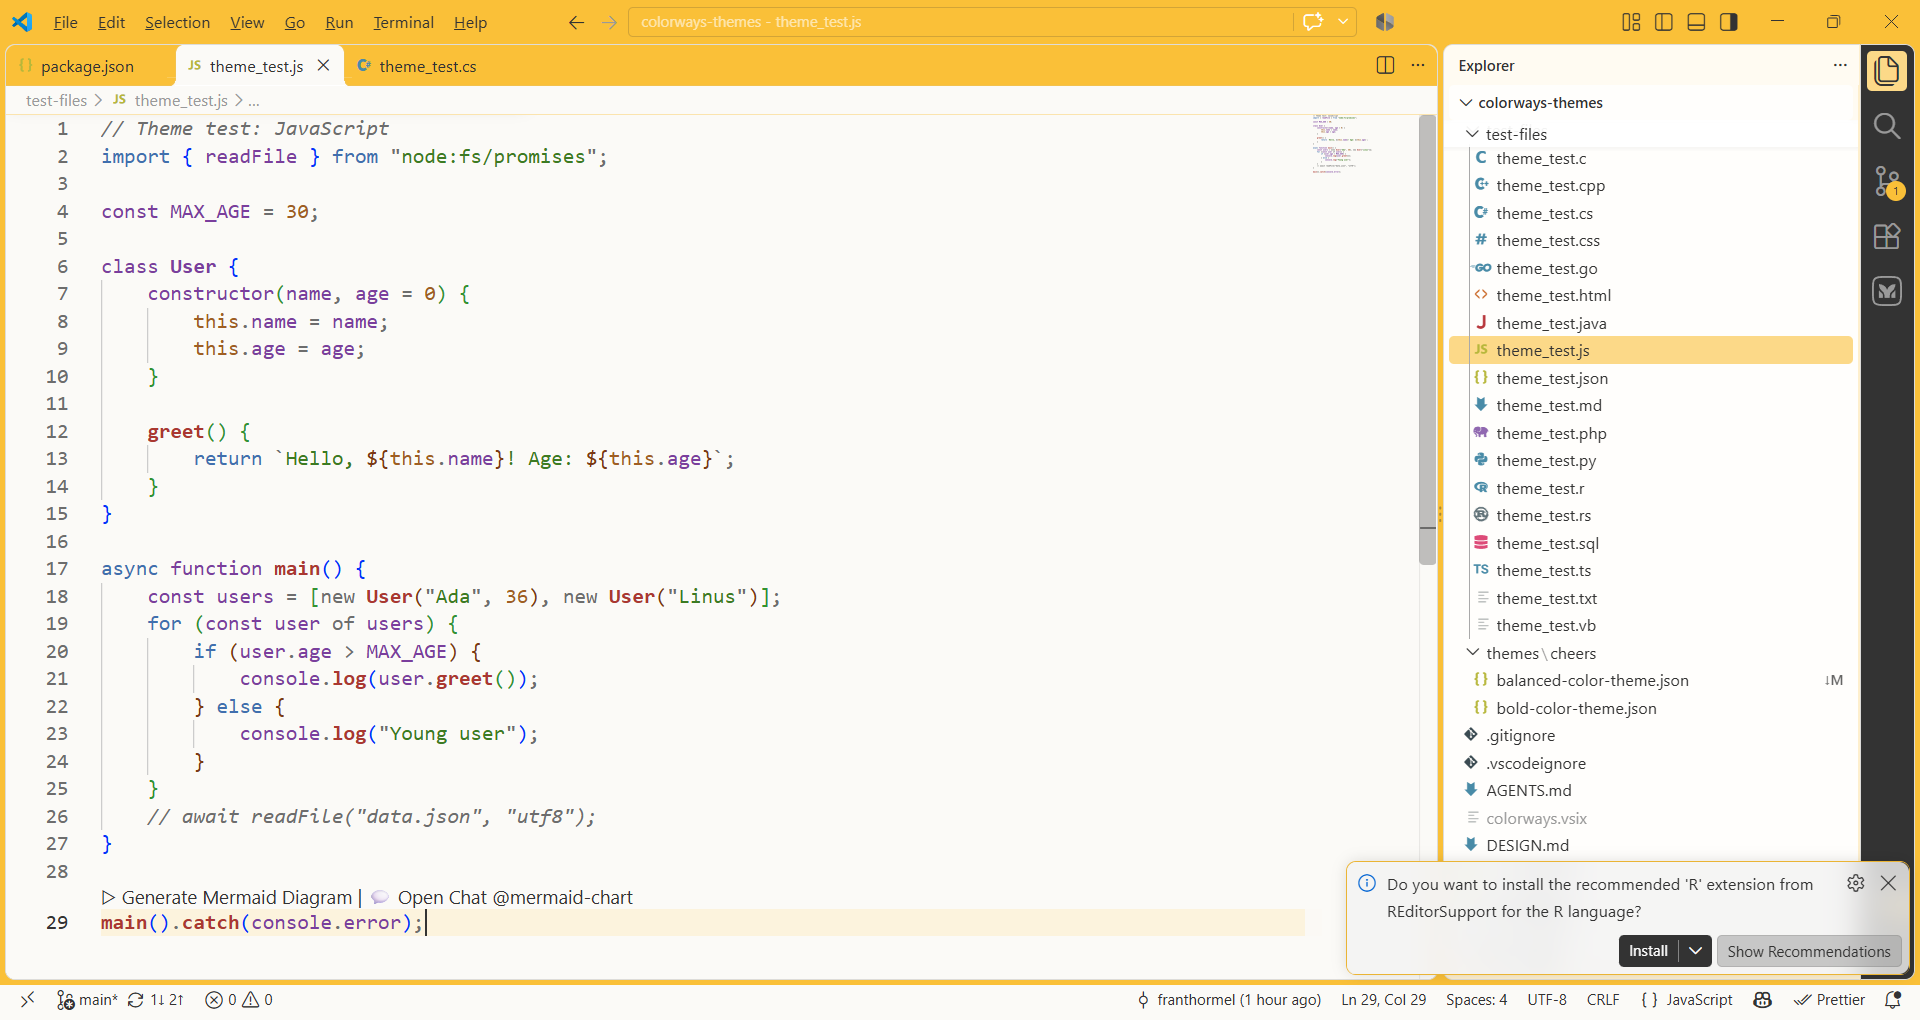
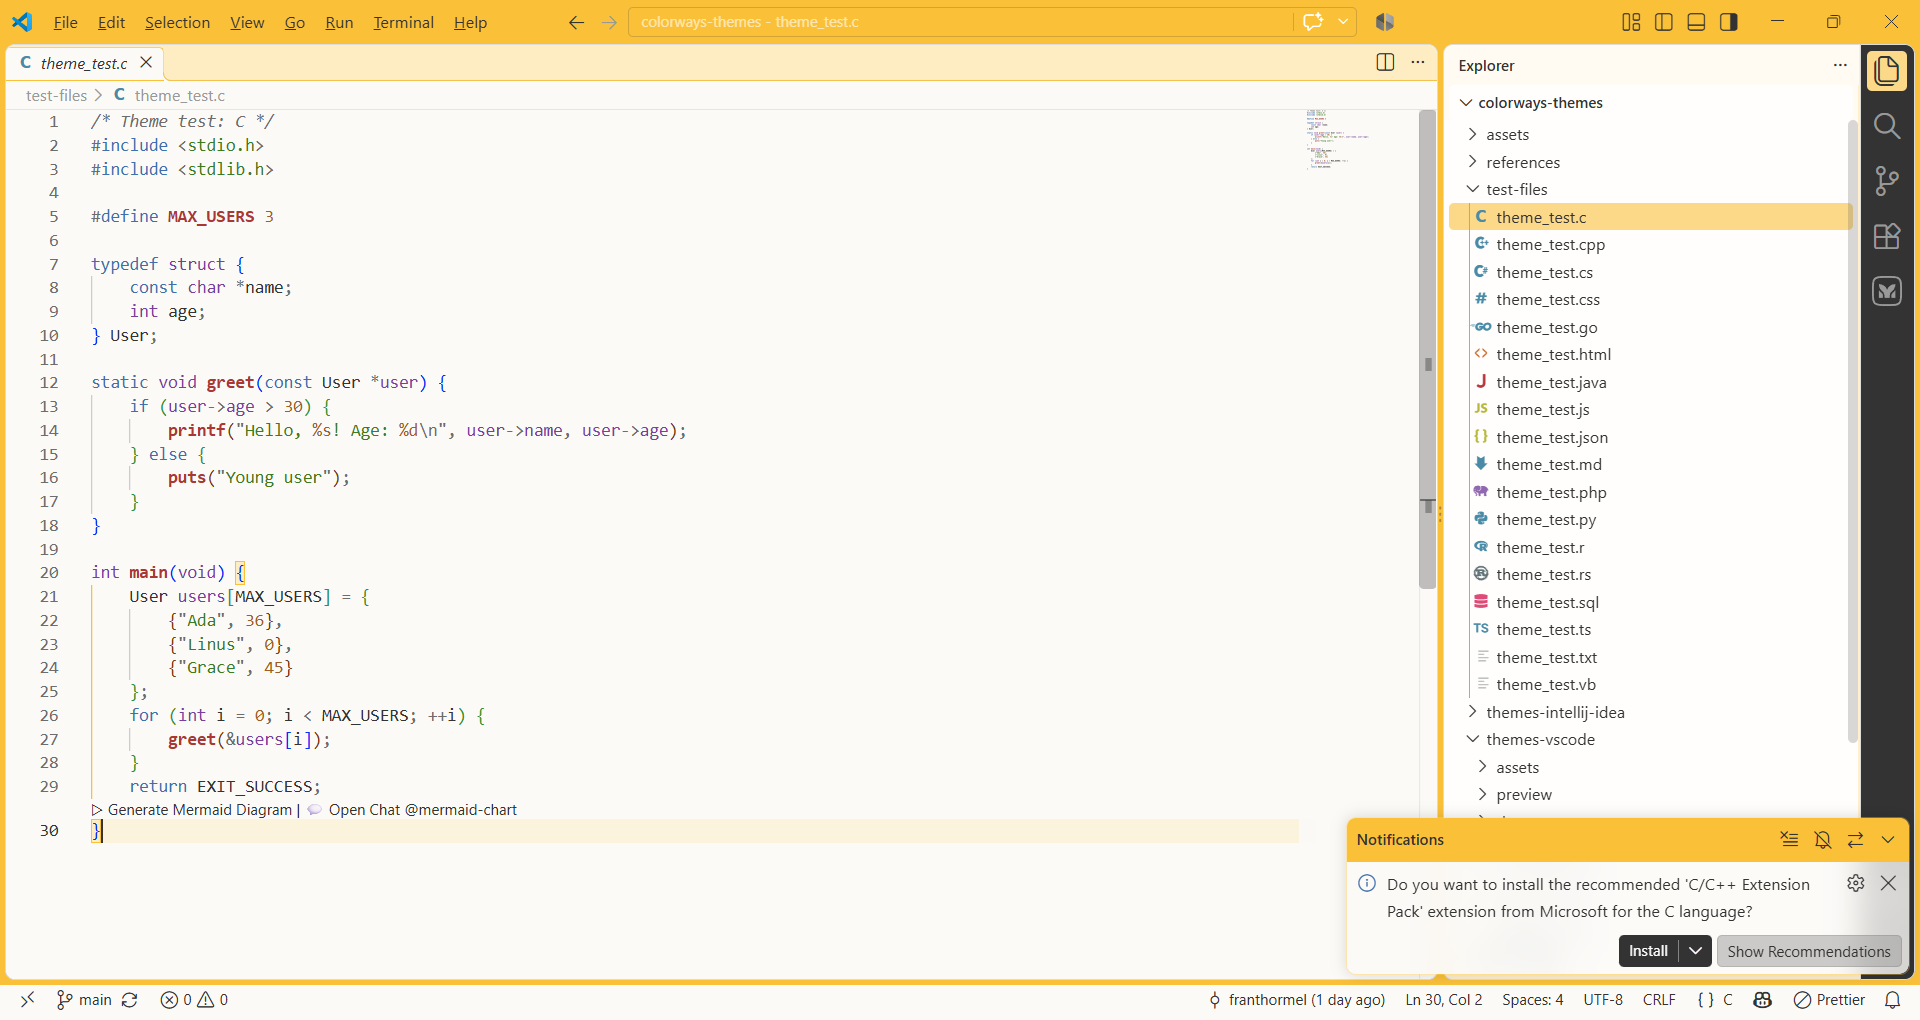
Fix readability issues for cheers theme

diff --git a/DESIGN.md b/DESIGN.md
@@ -1,17 +1,27 @@
 # Theme Design Guidelines
 
+Each project might contain an additional guide reference docs file `THEME.md` for modifying the corresponding theme files, e.g. [VS Code Theme Guide](themes-vscode/THEME.md)
+
+This guide comes from the official theme documentation.
+
+As needed, _the core rules must still and always be prioritized_ over this doc file.
+
 ## Picking the Colors
 
 Ensure, as much as possible, that all of the colors in the references are actually applied and incorporated into the themes.
 
-However, _the core rules must and always be prioritized_ if following the actual reference colors violates any of the core rules.
+However, _the core rules must still and always be prioritized_ if following the actual reference colors violates any of the core rules.
 
 However, if the colors required to satisfy the core rules might be missing from the given reference palette:
 
 1. Try to pick from the `/references/other-colors.txt` file
    - This is a rigid color list. If the color that you need does not exist, proceed to the next steps.
    - Only add a new color this file if it's being used broadly amongst all themes.
-2. Try to pick existing color values from the sibling themes or the other existing themes
+2. Try to pick existing color values from the sibling themes or the other existing themes. Here is the precendence for the theme styles
+   - Light theme is closer to the balanced them than the dark theme
+   - Balanced theme is closer to a light theme than the dark theme
+   - Dark theme is closer to the balanced theme than the light theme
+   - TLDR; Light <--close to one another--> Balanced <--close to Dark
 3. If no color values are still applicable, pick something that you think fits best.
 
 ## Core Rules

diff --git a/AGENTS.md b/AGENTS.md
@@ -9,10 +9,6 @@ See `DESIGN.md` for the full guidelines.
 If following the guidelines takes a longer time than expected, you can always ask the user for help.
 The user can and will finalize the design decision.
 
-Additionally each project has a guide file `THEME.md` for modifying the corresponding theme files:
-
-- [VS Code Theme Guide](themes-vscode/THEME.md)
-
 ## Theme - Adding or Editing
 
 - [VS Code](themes-vscode/)
@@ -40,6 +36,7 @@ The `LICENSE.md` file in the root directory is the original license file that's 
 ## Releasing is done manually by the user
 
 DO NOT perform this automatically.
+DO NOT bump the version numbers.
 This will and always be done manually by the user.
 
 ## Review is done manually by the user

diff --git a/themes-vscode/README.md b/themes-vscode/README.md
@@ -8,8 +8,8 @@ Themes inspired by [Firefox Colorways](https://support.mozilla.org/en-US/kb/pers
 
 #### Balanced
 
-![Cheers (Balanced)](./preview/cheers-balanced.png)
+![Cheers (Balanced)](https://raw.githubusercontent.com/franthormel/colorways-themes/main/themes-vscode/preview/cheers-balanced.png)
 
 #### Bold
 
-![Cheers (Bold)](./preview/cheers-bold.png)
+![Cheers (Bold)](https://raw.githubusercontent.com/franthormel/colorways-themes/main/themes-vscode/preview/cheers-bold.png)
